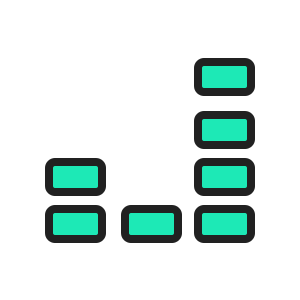
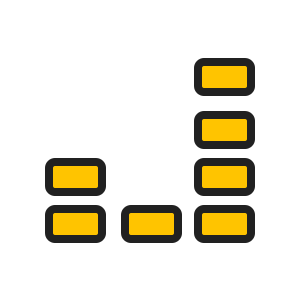
color

diff --git a/index.html b/index.html
@@ -47,7 +47,7 @@
 		<div class="navbar-fixed">
 			<nav class="grey darken-4 z-depth-0">
 				<div class="nav-wrapper">
-					<a href="#" class="brand-logo hide-on-med-and-down">ERR_404</a>
+					<a href="#" class="brand-logo oswald yellow-accent">ERR_404</a>
 					<a href="#" data-activates="mobile-nav" class="button-collapse"><i class="material-icons">menu</i></a>
 					<ul class="right hide-on-med-and-down">
 						<li><a href="#landing-section" class="waves-effect waves-teal">HOME</a></li>
@@ -68,7 +68,7 @@
 
 		<!-- Side nav -->
 		<ul class="side-nav" id="mobile-nav">
-			<li><img src="assets/logo.png" class="responsive-img side-nav-header"></li>
+			<li><h1 class="side-nav-header oswald yellow-accent center-align">ERR_404<br><span><h4 class="grey-text text-darken-4">HACK NOT FOUND</h4></span></h1></li>
 			<li><a href="#landing-section" class="waves-effect waves-teal">HOME</a></li>
 			<li><a href="#about-us-section" class="waves-effect waves-teal">ABOUT</a></li>
 			<li><a href="#domains-section" class="waves-effect waves-teal">DOMAINS</a></li>
@@ -538,7 +538,7 @@
 			<div class="container">
 				<div class="row light-heading">
 					<div class="col l12 s12 center">
-						<h1 class="oswald">ERR_404</h1>
+						<h1 class="oswald yellow-accent">ERR_404</h1>
 						<h3 class="oswald">HACK NOT FOUND</h3>
 						
 					</div>

diff --git a/styles.css b/styles.css
@@ -5,7 +5,10 @@ body{
 
 .oswald{
 	font-family: "Oswald", sans-serif;
+}
 
+.yellow-accent{
+	color: #FFD740;
 }
 
 #main{
@@ -143,27 +146,27 @@ ul li a{
 
 input[type=text]:focus:not([readonly]),
 input[type=tel]:focus:not([readonly]){
-	border-bottom: 1px solid #1de9b6;
-	box-shadow: 0 1px 0 0 #1de9b6;
+	border-bottom: 1px solid #FFD740;
+	box-shadow: 0 1px 0 0 #FFD740;
 }
 
 input[type=text].valid
 ,input[type=tel].valid{
-	border-bottom: 1px solid #00E676;
-	box-shadow: 0 1px 0 0 #00E676;
+	border-bottom: 1px solid #FFD740;
+	box-shadow: 0 1px 0 0 #FFD740;
 }
 
 input[type=text]:focus:not([readonly])+label,
 input[type=tel]:focus:not([readonly])+label{
-	color: #1de9b6;
+	color: #FFD740;
 }
 
 .input-field .prefix.active{
-	color: #1de9b6;
+	color: #FFD740;
 }
 
 ul li a.active{
-	color: #1de9b6;
+	color: #FFD740;
     background-color: rgba(250, 250, 250, 0.1);
 }
 
@@ -204,7 +207,7 @@ ul li a.active{
 #faq-section .collapsible-header:hover{
 	border: 0px;
 	box-shadow: none;
-	color: #1de9b6;
+	color: #FFD740;
 }
 #faq-section .collapsible-body{
 	font-size: 1.1rem;
@@ -283,7 +286,7 @@ ul li a.active{
 	width: 200px;
 	height: 200px;
 	border-radius: 50%;
-	border: 2px solid #1de9b6;
+	border: 2px solid #FFD740;
 	padding: 10px;
 	background-color: #fafafa;
 	background-color: #fff;
